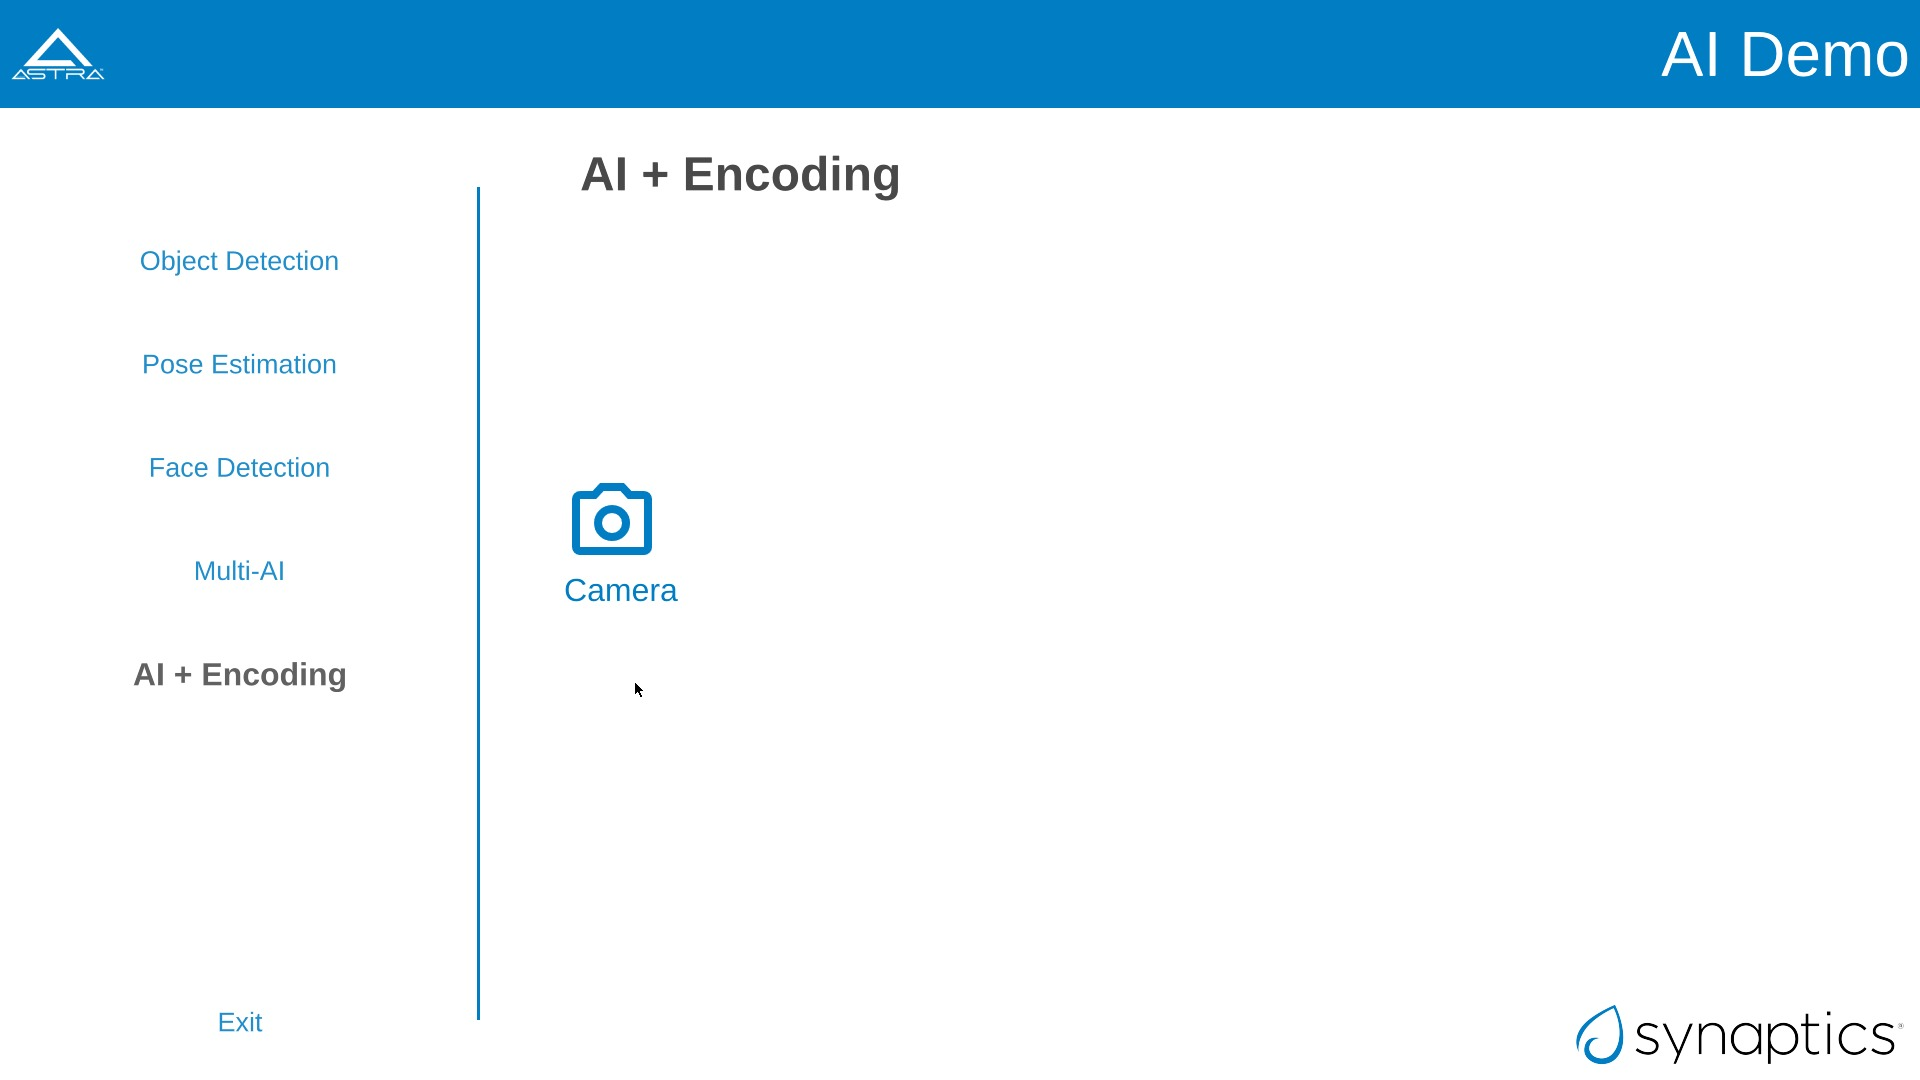
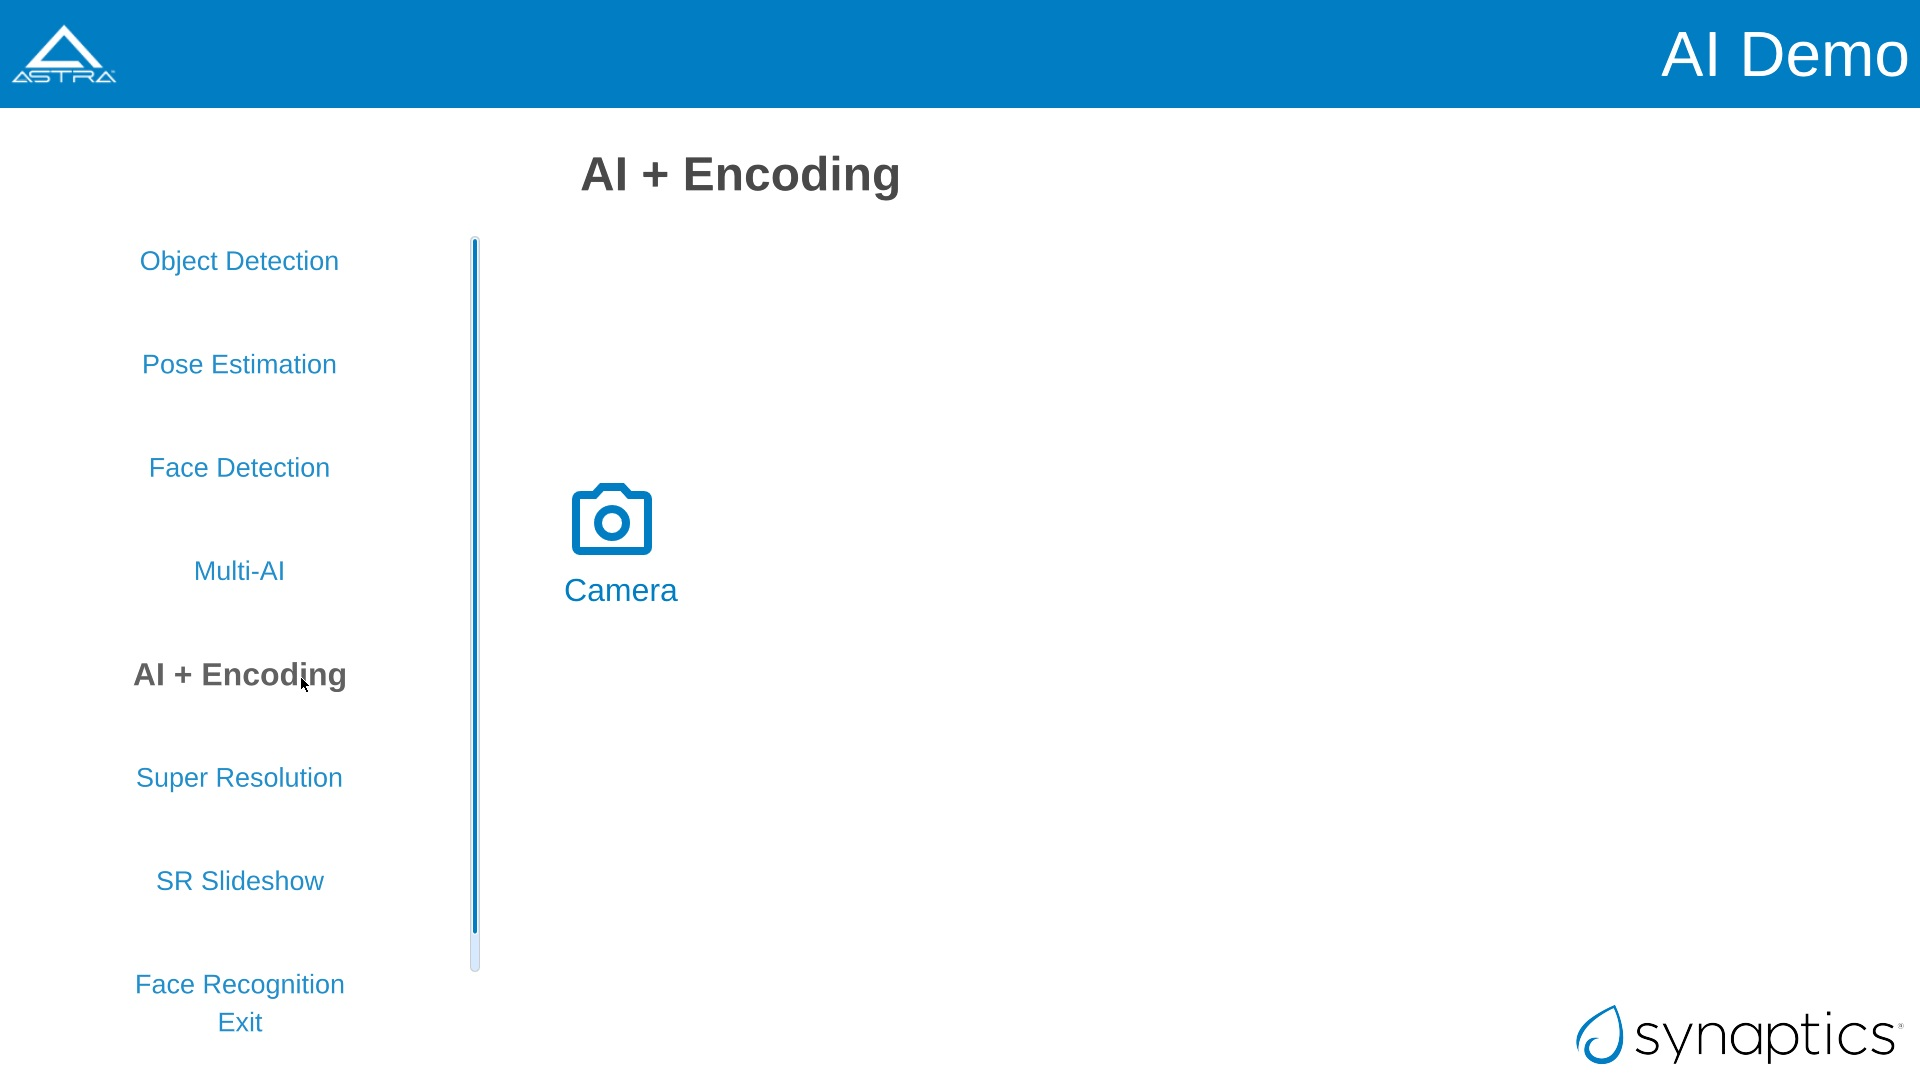
OOBE demo updates for v1.7.0

diff --git a/quickstart/oobe.rst b/quickstart/oobe.rst
@@ -144,7 +144,7 @@ environment. These demos are `Textures <https://doc.qt.io/qt-5/qtopengl-textures
 
 .. figure:: media/syna-explorer-graphics.jpg
 
-    Graphics pane on SL1640
+    Graphics pane on SL1680
 
 .. note::
 
@@ -153,37 +153,38 @@ environment. These demos are `Textures <https://doc.qt.io/qt-5/qtopengl-textures
 Syna AI
 ^^^^^^^
 
-The fourth button on the left is the "AI" button, which opens the "AI" pane. This pane contains a button to launch the
-"AI Player" app, which includes object detection, pose estimation, and face detection examples. There is also an example
-which does object detection using a USB camera and encodes then streams the output over UDP. SL1680 supports Multi-AI
-which supports doing AI inferencing on four streams and outputting the result to the display. SL1680 supports AI inferencing
-on muxed stream of 3x3 tiles composed from 4 USB camera streams and outputting the result to the display. 
+The fourth button on the left is the "AI" button, which opens the "AI" pane. This pane contains a button to launch the "AI Player" app, which includes two sets of usecases. Video Usecases and Audio Usecases
 
 .. figure:: media/syna-explorer-ai-pane.jpg
 
-    AI pane on SL1640
+    AI pane on SL1680
+
+Video Usecases
+""""""""""""""
+
+This includes object detection, pose estimation, and face detection examples. There is also an example which does object detection using a USB camera and encodes then streams the output over UDP. SL1680 supports Multi-AI which supports doing AI inferencing on four streams and outputting the result to the display. SL1680 supports AI inferencing on muxed stream of 3x3 tiles composed from 4 USB camera streams and outputting the result to the display.
 
 Object Detection
-""""""""""""""""
+****************
 
 The object detection example uses a YOLOv8 model to detect object from a 1080p25 file source or a USB camera at 640x480 resolution.
 
 .. figure:: media/syna-ai-player-object-detection.jpg 
     
-    The Object Detection Window on SL1640
+    The Object Detection Window on SL1680
 
 .. figure:: media/syna-ai-player-object-detection-output.jpg
     
     Object Detection output from the default 1080p25 file
 
 Pose Estimation
-"""""""""""""""
+***************
 
 The pose estimation example uses a YOLOv8 model to do pose estimation on a 1080p25 file source or a USB camera at 640x480 resolution.
 
 .. figure:: media/syna-ai-player-pose-estimation.jpg 
     
-    The Pose Estimation Window on SL1640
+    The Pose Estimation Window on SL1680
 
 .. figure:: media/syna-ai-player-pose-estimation-output.jpg
     
@@ -191,16 +192,16 @@ The pose estimation example uses a YOLOv8 model to do pose estimation on a 1080p
 
 
 Face Detection
-""""""""""""""
+**************
 
 The face detection example uses a YOLOv5 model to detect faces using a USB camera at 640x480 resolution.
 
 .. figure:: media/syna-ai-player-face-detection.jpg 
     
-    The Face Detection Window on SL1640
+    The Face Detection Window on SL1680
 
 Multi-AI
-""""""""
+********
 
 SL1680 Multi-AI supports 3 different demos:
 
@@ -234,7 +235,7 @@ detection is performed on all four streams.
     Synaptics has verified using 4 1080p15 RTSP streams with Quad View.
 
 AI + Encoding
-"""""""""""""
+*************
 
 The AI + Encoding example showcases Astra Machina's ability to create a pipeline which performs Decoding + AI + Encoding + Streaming.
 The input source is a USB camera at 640x480 resolution and the output is streamed over the network using UDP. A host can then connect
@@ -242,7 +243,7 @@ the the stream using Gstreamer to view the output. Output is also output to the 
 
 .. figure:: media/syna-ai-player-ai-encoding.jpg
 
-    AI + Encoding pane on SL1640
+    AI + Encoding pane on SL1680
 
 A window will open when the camera button is clicked. The window will ask for the IP address of the host which will be receiving the
 stream. Enter the IP address and click "OK".
@@ -264,6 +265,79 @@ or, run this command on Linux::
         payload=96" ! queue ! rtph264depay ! h264parse ! avdec_h264 ! autovideosink
 
 
+Super Resolution
+****************
+
+Super Resolution (SR) is a technique used in image processing and computer vision to enhance the resolution of an image or video. This application showcases the chip capability in enhancing camera and file inputs to higher resolution using AI-powered super resolution.
+
+.. figure:: media/syna-ai-player-super-resolution.jpg
+
+    Super Resolution pane on SL1680
+
+.. note::
+
+	For SR, the application needs to run in 4K resolution. When launching the application, a popup will appear prompting you to switch to 4K. Upon clicking 'OK', the system will reboot and switch to 4K mode, after which the application can be run. Other applications run in 2K resolution by default. When you attempt to launch them, a popup will appear asking to switch back to 2K. Clicking 'OK' will reboot the system and revert to 2K mode.
+	
+
+For USB Camera case, it will list all the connected devices information, and user can select from the drop-down menu. Choose input and output resolution from the drop-down menu. And select model type (Fast or Qdeo) and save the configuration.
+
+For File source case, select the file source option from the input configuration dialog box and click on "Save."
+
+.. note::
+	Please note that video files with only the input resolutions 640x360, 960x540 and 1280x720 are supported. 
+
+Use the button on the right top corner to enable/disable Super Resolution. By-default Super Resolution is enabled.
+
+SR Slideshow
+************
+
+The goal of SR is to generate a high-resolution (HR) image or video from one or more low-resolution (LR) images or videos. This application displays original and enhanced images side-by-side in a slideshow format.
+
+.. note::
+
+	For SR, the application needs to run in 4K resolution. When launching the application, a popup will appear prompting you to switch to 4K. Upon clicking 'OK', the system will reboot and switch to 4K mode, after which the application can be run. Other applications run in 2K resolution by default. When you attempt to launch them, a popup will appear asking to switch back to 2K. Clicking 'OK' will reboot the system and revert to 2K mode.
+
+.. figure:: media/syna-ai-player-super-resolution-slideshow.jpg
+
+    Super Resolution slideshow pane on SL1680
+
+This application uses a set of images to run super-resolution. It displays both normal and super-res enhanced image.
+
+.. figure:: media/syna-ai-player-super-resolution-slideshow-example.jpg
+
+    Super Resolution slideshow example
+
+There's option to Play Default and Play User Files. Please note that only PNG files with a resolution of 1280x720 and bit depth of 24 bits are supported.
+
+After selecting the desired files, click on "Play User Files" to begin playback of the added files. Also the added files can be removed by Remove Files option.
+
+In the center, you will find the Play button, which will simply start the application with the default files.
+
+Face Recognition
+****************
+This application is for real time face recognition and identification. 
+
+.. figure:: media/syna-ai-player-face-recognition.jpg
+
+    Face Recognition pane on SL1680
+
+Upon initiation of the camera feed via the Play function, the system will detect new faces. For each new detection, a preview image will be displayed, prompting the user to provide a name. This name is then saved to the local database. For faces already present in the database, the corresponding name will be automatically displayed above the bounding box. All face identification data is stored locally in the face_id_data.yml file, located at /home/root/demo/configs.
+
+.. note::
+
+	The current application iteration processes only the largest detected face within the frame for recognition purposes.
+
+Audio Usecases
+^^^^^^^^^^^^^^^
+Audio Usecases button opens Audio Classification application. Audio classification is run with YAMNet tflite model. YAMNet is an audio event classifier that takes an audio waveform as input and makes independent predictions for each of the 521 audio events.
+
+.. note::
+	For this use case, the USB camera's microphone is required. It must be connected for testing.
+
+.. figure:: media/syna-ai-player-audio-classification.jpg
+
+    Audio Classification pane on SL1680
+
 Capability Demo
 ^^^^^^^^^^^^^^^
 
@@ -272,7 +346,7 @@ The fifth button on the left is the "Capability Demo" button, which opens the "C
 
 .. figure:: media/syna-capability-demo-pane.jpg
 
-    Capability Demo pane on SL1640
+    Capability Demo pane on SL1680
 
 Best Case
 """""""""
@@ -315,19 +389,18 @@ Click on "SAVE SETTINGS" button to save selections. Click on "PLAY" button to st
 
 
 
-Settings
-^^^^^^^^
+Camera Config
+^^^^^^^^^^^^^
 
-The sixth button on the left is the "Settings" button, which opens the "Settings" pane. This pane contains options to configure global
-settings for different SynaExplorer demo applications.
+The sixth button on the left is the "Camera Config" button. This pane contains options to configure camera settings for different SynaExplorer demo applications.
 
 .. note::
 
     Defaults will be used if settings is not used to configure.
 
-.. figure:: media/settings-pane.jpg
+.. figure:: media/camera-config-pane.jpg
 
-    Settings pane on SL1680
+    Camera Config pane on SL1680
 
 First section is for configuring the priority for the USB camera format selection. Click on the right side highlighted buttons to raise or
 lower the priority of specific format. Once done click on "Save Priorities" button.
@@ -347,6 +420,18 @@ clicking on "Validate URLs" button to check if they are alive and reachable. Als
 
     RTSP URLs Validation on SL1680
 
+ISP Camera
+^^^^^^^^^^
+The last pane on Applications is ISP Camera.
+.. note::
+
+    ISP camera is available only in sl1680.
+
+.. figure:: media/isp-camera-pane.jpg
+
+    ISP camera pane on SL1680
+
+
 Settings
 --------
 
@@ -359,9 +444,17 @@ Display Config
 
 Display config allows to select MIPI panel for given platform. You can select a panel from auto filled dropdown menu and click on "Save Panel" button. It will popup a messege to reboot a board. On reboot your new panel will be configured.
 
-.. figure:: media/settings-popup.jpg
+.. figure:: media/settings-display-config.jpg
+
+	Display config pane on SL1680
+
+.. figure:: media/settings-display-config-dropdown.jpg
+
+	Display config dropdown on SL1680
 
 "Reset to Default" button configures the default display. "Print Panel Info" button gives currently configured panel information.
+
+.. figure:: media/settings-popup.jpg
 
 .. note::
 
@@ -372,6 +465,24 @@ Display config allows to select MIPI panel for given platform. You can select a 
     Before running display settings, it is required to save uboot environment once to have persistent configuration for display.
     Interrupt a boot process on start, to stop in uboot console (See :ref:`uboot_prompt`). Enter "saveenv" command to save uboot environment. Reboot a system.
 
+
+WiFi
+^^^^
+
+Wifi settings allows you to connect to the available wifi network options.
+
+.. figure:: media/settings-wifi.jpg
+
+	Wifi pane on SL1680
+
+Bluetooth
+^^^^^^^^^
+
+Bluetooth settings allows you to connect to the available bluetooth network options.
+
+.. figure:: media/settings-bluetooth.jpg
+
+	Bluetooth pane on SL1680
 
 About
 -----
